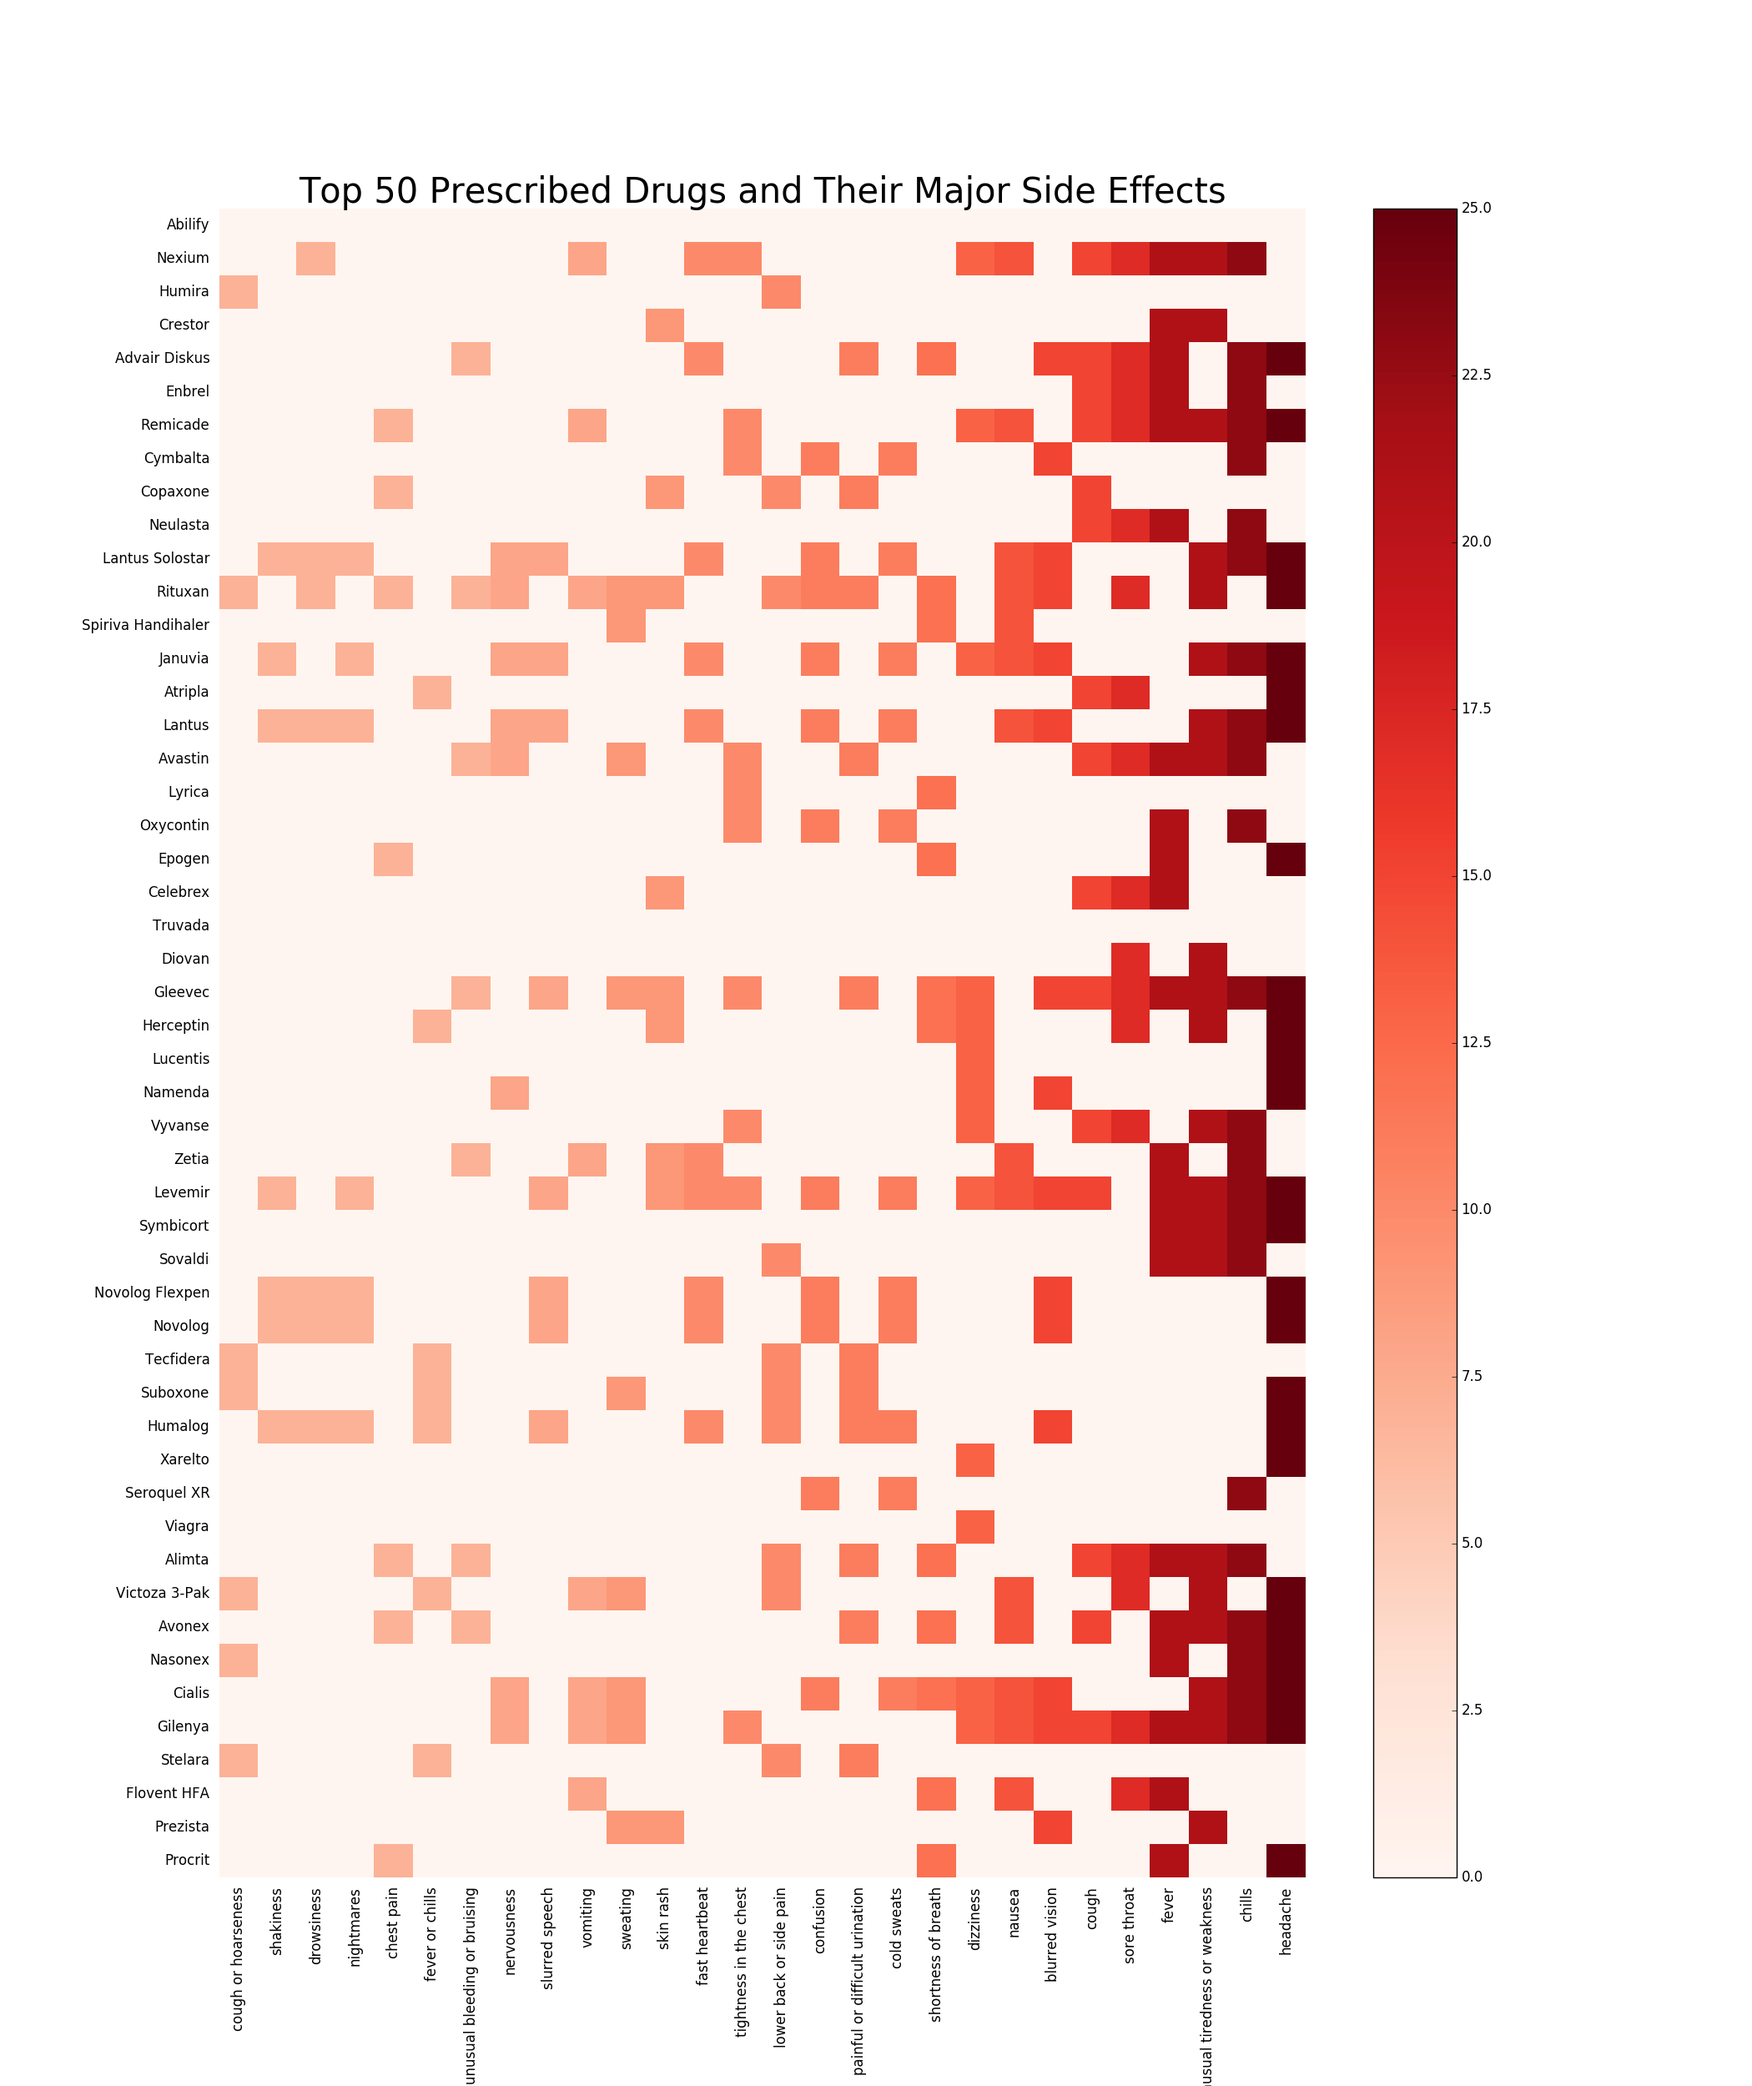
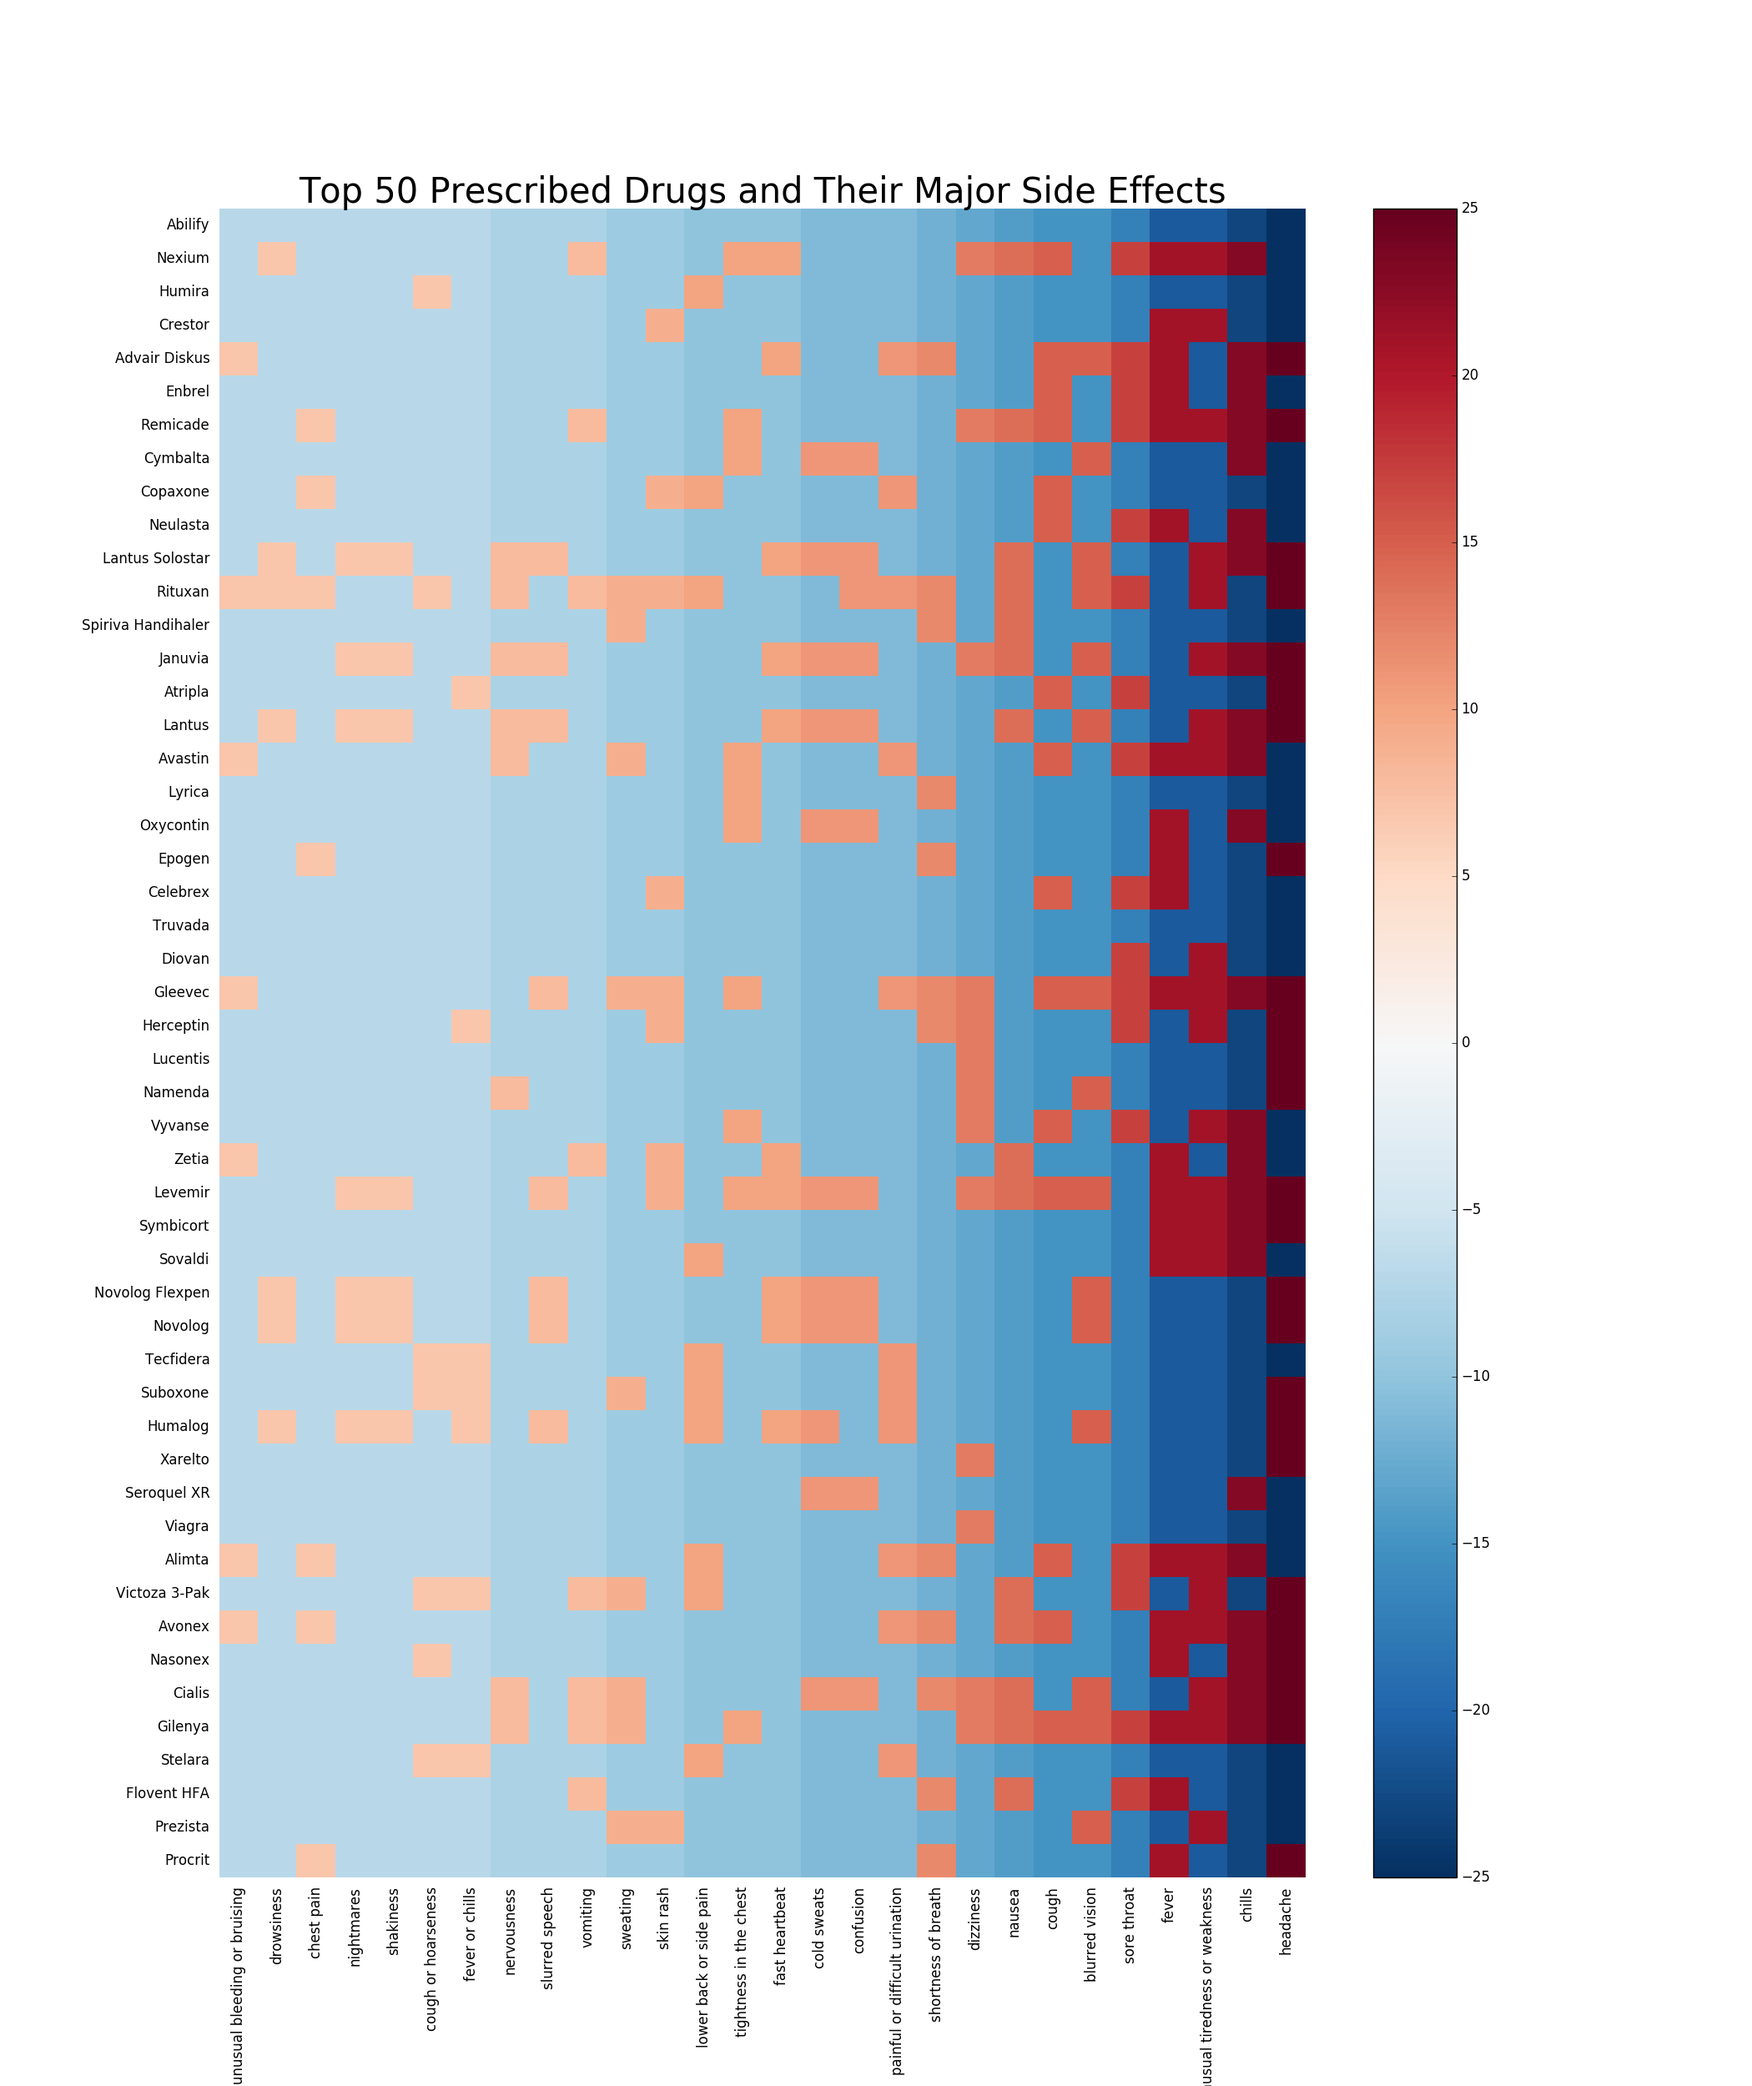
slightly improve viz visually, need to fix keys tick labels

diff --git a/Visulization1/viz.py b/Visulization1/viz.py
@@ -32,7 +32,7 @@ for drug, sideEffects in drugs.items():
         else:
             allSideEffects[sideAffect] += 1
 
-lessSideEffects = {key: value for key, value in allSideEffects.items() if value >= 7} # bug if < 4
+lessSideEffects = {key: value for key, value in allSideEffects.items() if value >= 7} # 7 is good
 effectLabels = []
 drugLabels = []
 
@@ -46,7 +46,8 @@ for drug, effects in drugs.items():
         if effect in effects:
             row.append(count)
         else:
-            row.append(0)
+            # row.append(0)
+            row.append(-1 * count)
     drugsPlotData.append(row)
 
 drugsPlotData.reverse()
